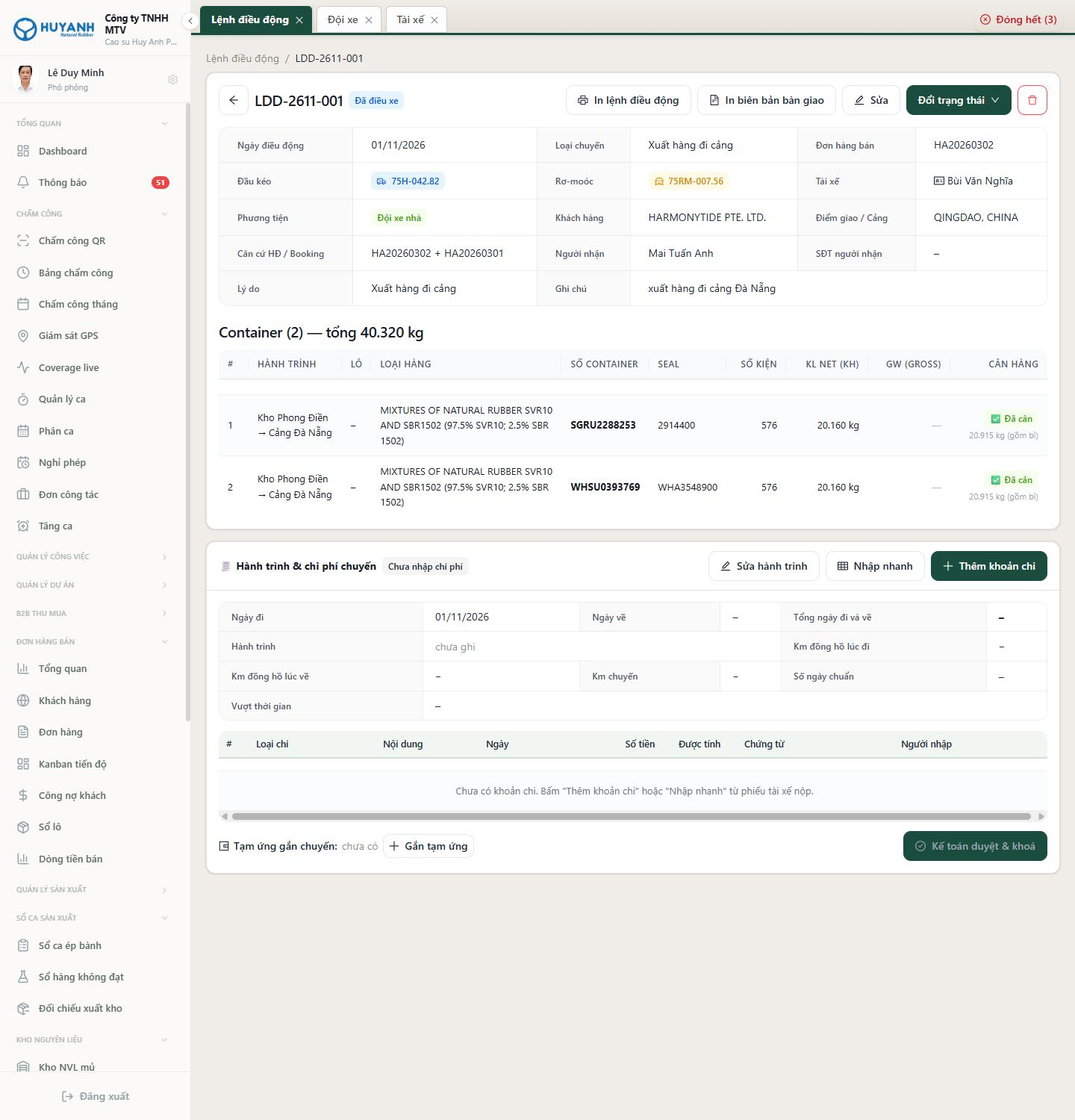
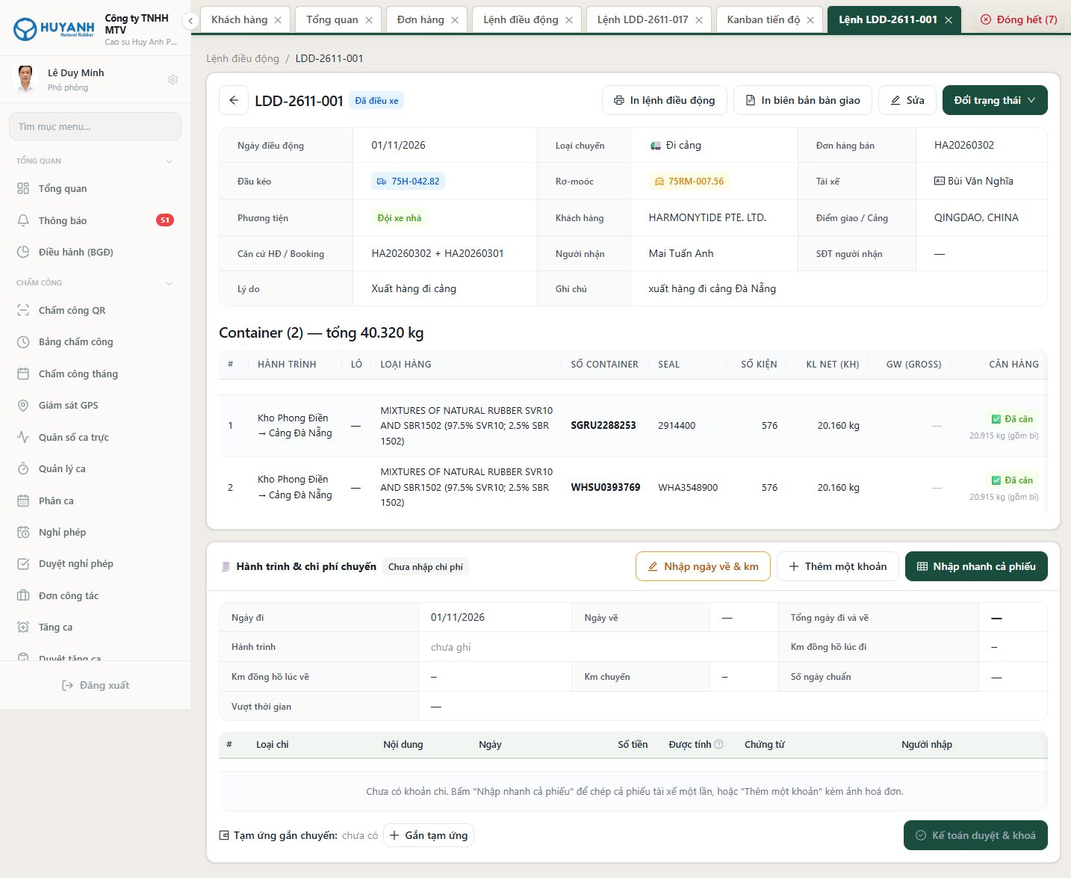
docs(logistics): refresh the hosted transport & fleet-cost guide
Bring the guide in line with the 13-18 Nov UI changes: trip type is now a card
grid grouped by vehicle, dispatch list gets vehicle-group and date filters,
trip-cost approval/reopen is finance-only, advance deletion asks for
confirmation, and load errors show a retry instead of an empty ledger.

Re-shoot 12 screenshots from the current build; this also fixes a stale
"not counted / driver bears it" label in the pending-approval shot and the
"Dang di" status name (it is "Dang van chuyen" in the app).

diff --git a/public/huong-dan-van-tai-chi-phi.html b/public/huong-dan-van-tai-chi-phi.html
@@ -74,7 +74,7 @@
     <div class="meta">
       <span class="pill">Máy tính: huyanhrubber.vn → menu VẬN TẢI</span>
       <span class="pill">4 mục: Lệnh điều động · Sổ chi phí đội xe · Đội xe · Tài xế</span>
-      <span class="pill">Ảnh chụp từ hệ thống 10/11/2026</span>
+      <span class="pill">Cập nhật và chụp lại ảnh 19/11/2026</span>
     </div>
   </div>
 
@@ -111,13 +111,14 @@
     <div class="r"><b>Kế toán</b>Soát khoản chi và chứng từ, bấm Duyệt và khoá, duyệt đề nghị thanh toán, đánh dấu đã chi.</div>
     <div class="r"><b>Ban Giám đốc</b>Xem sổ chi phí theo tài xế, theo xe, theo loại chi; ký duyệt khi cần.</div>
   </div>
-  <p class="sm muted">Vào được menu Vận tải: Ban Giám đốc, Hành chính tổng hợp, QC, Logistics và admin. Duyệt và chi trên đề nghị thanh toán chỉ kế toán, Ban Giám đốc, admin.</p>
+  <p class="sm muted">Vào được menu Vận tải: Ban Giám đốc, Hành chính tổng hợp, QC, Logistics và admin. Duyệt và chi trên đề nghị thanh toán, cũng như <b>Kế toán duyệt và khoá</b> / <b>Mở lại</b> chi phí từng chuyến, chỉ kế toán, Ban Giám đốc, admin bấm được; Hành chính tổng hợp nhập liệu sẽ thấy các nút này bị mờ.</p>
 
   <h2 id="s2">2 · Danh sách lệnh điều động</h2>
-  <div class="desk"><img src="van-tai/01-danh-sach-lenh.jpeg" alt="Danh sách lệnh điều động"><div class="cap">Vận tải → Lệnh điều động</div></div>
+  <div class="desk"><img src="van-tai/01-danh-sach-lenh.jpeg" alt="Danh sách lệnh điều động"><div class="cap">Vận tải → Lệnh điều động: thanh trạng thái, ô lọc nhóm xe, khoảng ngày điều động; dải vàng báo khi đã chạm 200 lệnh</div></div>
   <ul class="tight">
-    <li>Ô tìm theo mã lệnh, biển số, tài xế, khách. Thanh chọn trạng thái để lọc.</li>
-    <li>Cột: Mã lệnh (LDD-năm tháng-số thứ tự), Ngày, Loại chuyến, Xe / Tài xế, Khách / Điểm đến, số Cont hay Pallet, KL kế hoạch, Trạng thái.</li>
+    <li>Ô tìm theo mã lệnh, biển số, tài xế, khách. Ba cách lọc: thanh chọn <b>trạng thái</b>; ô <b>Mọi nhóm xe</b> (🚛 Xe cont · 🚚 Xe tải · 🚗 Xe con · 🗂 Khác); và khoảng <b>Từ ngày điều động – Đến ngày</b>.</li>
+    <li>Cột: Mã lệnh (LDD-năm tháng-số thứ tự), Ngày, Loại chuyến (ghi nhóm xe và loại chở, ví dụ 🚛 Đi cảng, 🚚 Chở mủ), Xe / Tài xế, Khách / Điểm đến, số Cont hay Pallet, KL kế hoạch, Trạng thái.</li>
+    <li>Sổ hiện tối đa 200 lệnh gần nhất theo bộ lọc; chạm trần thì có dòng vàng báo phía trên bảng, hãy lọc theo ngày để xem lệnh cũ hơn. Tải lỗi thì hiện nút <b>Thử lại</b>, không hiện bảng trống.</li>
     <li>Chạm một dòng để mở chi tiết. Nút <span class="btn">Tạo lệnh điều động</span> ở góc phải.</li>
   </ul>
   <div class="card">
@@ -125,7 +126,7 @@
     <div class="status" style="margin-top:8px">
       <span class="tag grey">Nháp</span><span class="arrow">→</span>
       <span class="tag blue">Đã điều xe</span><span class="arrow">→</span>
-      <span class="tag gold">Đang đi</span><span class="arrow">→</span>
+      <span class="tag gold">Đang vận chuyển</span><span class="arrow">→</span>
       <span class="tag green">Hoàn tất</span>
       <span class="muted sm" style="margin-left:8px">(<span class="tag red">Đã huỷ</span> ở bất kỳ bước nào; lệnh huỷ có thể trả về Nháp)</span>
     </div>
@@ -133,25 +134,26 @@
   </div>
 
   <h2 id="s3">3 · Tạo lệnh điều động</h2>
-  <div class="desk"><img src="van-tai/02-tao-lenh.jpeg" alt="Form tạo lệnh điều động"><div class="cap">Lệnh điều động → Tạo lệnh điều động</div></div>
+  <div class="desk"><img src="van-tai/02-tao-lenh.jpeg" alt="Form tạo lệnh điều động"><div class="cap">Lệnh điều động → Tạo lệnh: lưới thẻ Loại chuyến theo nhóm xe ở trên cùng, thanh Lưu lệnh dính đáy trang</div></div>
   <div class="two">
     <div>
       <ol class="steps">
-        <li><b>Ngày điều động</b> và <b>Loại chuyến</b>: Xuất hàng đi cảng, Hàng thương mại, Đi lấy mủ, Đi Lào, Nội bộ, Khác. Loại chuyến quyết định bảng hàng bên dưới là container hay dòng tự do.</li>
+        <li><b>Loại chuyến</b>: chạm một thẻ, các thẻ xếp theo nhóm xe — 🚛 <b>Xe cont (đầu kéo)</b>: Đi cảng · Hàng thương mại · Đi lấy mủ (NM khác) · Đi Lào; 🚚 <b>Xe tải</b>: Chở mủ · Chở hàng hoá; 🚗 <b>Xe con</b>: Chở cán bộ NV; 🗂 <b>Khác</b>: Nội bộ / việc khác · Khác. Dòng "đang chọn" phía trên nhắc thẻ đang dùng. Thẻ quyết định bảng hàng bên dưới là container hay dòng tự do. Sau đó chọn <b>Ngày điều động</b>.</li>
         <li><b>Phương tiện và tài xế</b>: chọn Đầu kéo, máy tự điền tài xế mặc định của xe đó. Chọn Rơ-moóc theo chuyến (moóc đổi liên tục nên không gắn cứng). Xe thuê ngoài thì bật thuê ngoài, gõ nhà xe, tên tài xế, số điện thoại, cước thuê.</li>
         <li><b>Thông tin chuyến</b>: khách hàng, điểm giao hoặc cảng, điểm bốc hàng (bỏ trống là kho Huy Anh), liên hệ tại điểm bốc, căn cứ hợp đồng hoặc booking, người nhận, lý do, ghi chú.</li>
-        <li><b>Hàng trên xe</b>: bấm <span class="btn white">Tạo từ Đơn hàng bán</span> → chọn đơn → tick đúng container và seal đi chuyến này (có nút chọn cả lô). Một xe chở container của nhiều đơn, nhiều khách thì gắn thêm đơn, mỗi đơn là một thẻ. Chuyến không có container thì <span class="btn white">Thêm dòng container</span> và gõ tay.</li>
-        <li>Bấm <span class="btn">Lưu lệnh</span>. Lệnh mới ở trạng thái Nháp.</li>
+        <li><b>Hàng trên xe</b>: bấm <span class="btn white">Tạo từ Đơn hàng bán</span> → chọn đơn → tick đúng container và seal đi chuyến này (có nút chọn cả lô). Bảng chọn đơn ghi <i>người mua → người nhận hàng</i> khi hai bên khác nhau, và dòng <i>⧉ Đợt n · HĐ gốc</i> cho đơn mua tiếp theo hợp đồng đã ký. Một xe chở container của nhiều đơn, nhiều khách thì gắn thêm đơn, mỗi đơn là một thẻ. Chuyến không có container thì <span class="btn white">Thêm dòng container</span> và gõ tay.</li>
+        <li>Bấm <span class="btn">Lưu lệnh</span> trên thanh dính đáy trang (kèm tổng số container và tổng kg đang nhập, nhập xong dòng cuối không phải cuộn lên). Lệnh mới ở trạng thái Nháp. Bấm Quay lại, đóng tab hoặc F5 khi chưa lưu thì máy hỏi "Rời trang khi lệnh chưa lưu?".</li>
       </ol>
     </div>
     <div class="card" style="margin-top:0">
       <b>Chuyến đi lấy mủ</b>
-      <p class="sm">Loại "Đi lấy mủ" có thêm ô loại mủ dự kiến, mã lô dự kiến, số pallet nhựa và sắt mang đi. App cân điền sẵn các số này khi chọn lệnh, và chi tiết lệnh hiện bảng đối chiếu bốn lần cân (hai ở Tân Lâm, hai ở Phong Điền).</p>
+      <p class="sm">Thẻ "Đi lấy mủ (NM khác)" có thêm ô loại mủ dự kiến, mã lô dự kiến, số pallet nhựa và sắt mang đi. App cân điền sẵn các số này khi chọn lệnh, và chi tiết lệnh hiện bảng đối chiếu bốn lần cân (hai ở nhà máy lấy mủ — Tân Lâm hoặc Lào, hai ở Phong Điền).</p>
       <b>Mẹo</b>
       <ul class="tight sm">
         <li>Đầu kéo gắn tài xế cố định ở danh mục Đội xe, nên chọn xe là xong phần tài xế.</li>
         <li>Mỗi dòng là một container với seal riêng. Một xe hai container thì hai dòng.</li>
         <li>Lệnh đã Hoàn tất không sửa được bảng hàng. Cần sửa thì đổi về Đã điều xe trước.</li>
+        <li>Mở lệnh cũ để sửa mà máy báo lỗi tải thì có nút Thử lại; form không hiện trống, kẻo lưu đè lên lệnh thật.</li>
       </ul>
     </div>
   </div>
@@ -159,12 +161,12 @@
   <h2 id="s4">4 · Chi tiết lệnh, đổi trạng thái, in</h2>
   <div class="desk"><img src="van-tai/03-chi-tiet-lenh.jpeg" alt="Chi tiết lệnh điều động"><div class="cap">Chi tiết lệnh LDD-2611-001: thông tin, container đã cân, khối Hành trình và chi phí chuyến</div></div>
   <ul class="tight">
-    <li>Hàng nút trên cùng: <span class="btn white">In lệnh điều động</span>, <span class="btn white">In biên bản bàn giao</span>, <span class="btn white">Sửa</span>, <span class="btn">Đổi trạng thái</span>, thùng rác để xoá lệnh nháp. Lệnh đi cảng có thêm <span class="btn white">Đánh dấu đã cân</span> khi trạm cân không chọn lệnh được.</li>
+    <li>Hàng nút trên cùng: <span class="btn white">In lệnh điều động</span>, <span class="btn white">In biên bản bàn giao</span>, <span class="btn white">Sửa</span>, <span class="btn">Đổi trạng thái</span>, thùng rác xoá hẳn lệnh. Thùng rác chỉ hiện với lệnh <b>Nháp</b> hoặc <b>Đã huỷ</b> và xoá luôn dòng hàng cùng chi phí chuyến đã nhập; lệnh đã phát hành muốn bỏ thì <b>Đổi trạng thái → Đã huỷ</b> (ngày điều động của lệnh là mốc giao hàng và tuổi nợ phải thu). Lệnh đi cảng có thêm <span class="btn white">Đánh dấu đã cân</span> khi trạm cân không chọn lệnh được.</li>
     <li>Bảng container: số container, seal, số kiện, KL net kế hoạch, GW, cột Cân hàng hiện "Đã cân" kèm số cân thật khi trạm cân đã cân.</li>
     <li>Phía dưới là khối <b>Hành trình và chi phí chuyến</b> (mục 7).</li>
   </ul>
   <div class="desk"><img src="van-tai/07-in-lenh.jpeg" alt="Bản in lệnh điều động xe"><div class="cap">Bản in A4 Lệnh điều động xe: số lệnh, lái xe, biển số, khách, cảng, bảng container, ô bảo vệ ghi giờ và km, bốn chữ ký</div></div>
-  <p class="sm">Bản in Biên bản bàn giao vận chuyển dùng cùng số liệu, thêm cột khách hàng khi một xe chở hàng của hai khách trở lên. Bấm <span class="btn gold">In</span> ở góc phải, trình duyệt chỉ in tờ phiếu.</p>
+  <p class="sm">Bản in Biên bản bàn giao vận chuyển dùng cùng số liệu, thêm cột khách hàng khi một xe chở hàng của hai khách trở lên. Dòng loại chuyến trên bản in ghi "nhóm xe — loại chở", ví dụ <i>Xe cont (đầu kéo) — Đi cảng</i>. Bấm <span class="btn gold">In</span> ở góc phải, trình duyệt chỉ in tờ phiếu.</p>
 
   <h2 id="s5">5 · Nối với trạm cân và đơn hàng bán</h2>
   <div class="card">
@@ -191,7 +193,7 @@
   </ul>
 
   <h2 id="s7">7 · Chi phí chuyến trên lệnh <small>khối "Hành trình và chi phí chuyến" trong chi tiết lệnh</small></h2>
-  <p>Xe về, Hành chính tổng hợp mở lệnh rồi nhập ba thứ: hành trình và km, từng khoản chi theo phiếu tài xế nộp, tạm ứng đã đưa. Kế toán xem xong bấm duyệt và khoá.</p>
+  <p>Xe về, Hành chính tổng hợp mở lệnh rồi nhập ba thứ: hành trình và km, từng khoản chi theo phiếu tài xế nộp, tạm ứng đã đưa. Kế toán (hoặc Ban Giám đốc) xem xong bấm duyệt và khoá.</p>
   <div class="desk"><img src="van-tai/17-khoi-chi-phi.jpeg" alt="Khối Hành trình và chi phí chuyến với ba nút nhập"><div class="cap">Ba nút nhập: <b>Nhập ngày về &amp; km</b> (tô vàng khi chuyến chưa có ngày về), <b>Thêm một khoản</b> (một khoản kèm ảnh), <b>Nhập nhanh cả phiếu</b> (chép cả phiếu tài xế một lần — đường chính).</div></div>
   <h3>Nhập ngày về và km</h3>
   <div class="desk"><img src="van-tai/05-sua-hanh-trinh.jpeg" alt="Hộp Hành trình và km của chuyến"></div>
@@ -217,24 +219,27 @@
     <li><b>Loại chi</b> và <b>Ngày chi</b> (mặc định ngày điều động). <b>Nội dung</b> ngắn gọn, ví dụ "Petrolimex Phong Điền 95 lít".</li>
     <li><b>Số tiền</b> và <b>đồng tiền</b> VND hoặc LAK. Chọn LAK thì nhập tỷ giá 1 LAK bằng bao nhiêu đồng, máy điền sẵn tỷ giá gần nhất và tự quy đổi.</li>
     <li><b>Khoản chi theo quy định (được tính)</b>: bật khi nằm trong danh mục chi phí công ty đã quy định, máy tính vào chuyến và vào đề nghị thanh toán. Tắt khi <b>chưa được thông qua</b> (ngoài quy định, chưa có quyết định): ghi vì sao, khoản nằm ở cột "Chưa thông qua" chờ Ban Giám đốc hoặc kế toán quyết, đồng ý thì bật lại. Tắt <b>không</b> có nghĩa là tài xế phải chịu.</li>
-    <li><b>Ảnh hoá đơn</b>: kéo thả hoặc chọn nhiều ảnh, nhận cả PDF, ảnh tự nén. Không bắt buộc nhưng sổ sẽ đếm khoản thiếu chứng từ.</li>
+    <li><b>Ảnh hoá đơn</b>: kéo thả hoặc chọn nhiều ảnh, nhận cả PDF, ảnh tự nén. Không bắt buộc nhưng sổ sẽ đếm khoản thiếu chứng từ. Nếu có ảnh tải lỗi, máy báo vàng "N chứng từ tải lỗi": khoản chi vẫn đã lưu, chỉ cần tải lại ảnh ở cột Chứng từ.</li>
     <li><span class="btn">Lưu</span> hoặc <span class="btn white">Lưu và thêm tiếp</span> để nhập khoản kế.</li>
   </ol>
   <h3>Bảng khoản chi, tạm ứng gắn chuyến, duyệt và khoá</h3>
   <ul class="tight">
     <li>Mỗi khoản một dòng: loại, nội dung, ngày, số tiền (LAK hiện kèm số quy đổi), công tắc Được tính (tắt là chưa thông qua, chờ quyết định), ảnh chứng từ (chạm xem to, nút tải thêm), người nhập. Khoản được tính mà chưa có ảnh gắn nhãn "thiếu CT".</li>
+    <li>Góc trên khối có nhãn trạng thái chi phí của chuyến: <span class="tag grey">Chưa nhập chi phí</span> → <span class="tag gold">Chờ kế toán duyệt</span> → <span class="tag green">Đã duyệt</span> (có ổ khoá và giờ duyệt). Sổ chi phí đội xe dùng đúng ba nhãn này.</li>
     <li>Cước thuê xe ngoài đã khai trên lệnh hiện thành một dòng màu tím, không nhập lại.</li>
     <li>Bốn ô tổng: <b>Tổng chi chuyến</b> (được tính + chưa thông qua, quy đổi VNĐ), Chi được tính, Chưa thông qua, Chứng từ đủ hay thiếu.</li>
-    <li><span class="btn white">Gắn tạm ứng</span>: ghi tạm ứng đã đưa cho tài xế trước chuyến. Dòng dưới hiện còn lại sau chuyến.</li>
-    <li><span class="btn gold">Kế toán duyệt và khoá</span>: sau khi khoá không sửa hay xoá khoản chi và chứng từ được nữa. Muốn sửa bấm <span class="btn white">Mở lại</span>.</li>
+    <li><span class="btn white">Gắn tạm ứng</span>: ghi tạm ứng đã đưa cho tài xế trước chuyến. Dòng dưới hiện còn lại sau chuyến. Bấm dấu × trên thẻ tạm ứng thì máy hỏi lại và nêu số tiền, vì xoá là mất hẳn khỏi sổ tạm ứng; tạm ứng đã vào đề nghị thanh toán thì không có dấu ×.</li>
+    <li><span class="btn gold">Kế toán duyệt và khoá</span>: sau khi khoá không sửa hay xoá khoản chi và chứng từ được nữa. Muốn sửa bấm <span class="btn white">Mở lại</span>. Hai nút này chỉ kế toán, Ban Giám đốc, admin bấm được (người khác thấy mờ, rê chuột có lời nhắc). Nút duyệt còn mờ khi chuyến chưa có khoản chi nào, kể cả cước thuê xe ngoài.</li>
   </ul>
   <div class="note warn sm">Chuyến đã gom vào đề nghị thanh toán cũng bị khoá sửa khoản chi. Muốn sửa phải bỏ chuyến khỏi phiếu nháp trước.</div>
+  <div class="note red sm"><b>Khối chi phí hiện nút Thử lại hoặc băng lỗi đỏ</b>: máy chưa tải được số liệu. Bấm Thử lại và <b>đừng nhập thêm khoản chi</b> khi chưa tải được, kẻo nhập trùng. Băng đỏ phía trên khối nghĩa là số đang xem là của lần tải trước, có thể chưa gồm khoản vừa lưu.</div>
   <h2 id="s8">8 · Sổ chi phí đội xe <small>Vận tải → Sổ chi phí đội xe</small></h2>
   <div class="desk"><img src="van-tai/10-so-chi-phi-theo-tai-xe.jpeg" alt="Sổ chi phí đội xe, tab theo tài xế"><div class="cap">Lọc tháng 11/2026, tài xế Bùi Văn Nghĩa. Bảng trên là đối soát theo tài xế, bảng dưới mỗi dòng một chuyến theo đúng bố cục form theo dõi chi phí tài xế</div></div>
   <ul class="tight">
-    <li><b>Bộ lọc</b>: tháng, tài xế, đầu kéo. Nút tải lại, <span class="btn white">Xuất Excel</span> ra file đúng 26 cột của form, một sheet mỗi tài xế. Nút <span class="btn gold">Lập đề nghị thanh toán</span> sáng khi đã chọn tài xế.</li>
+    <li><b>Bộ lọc</b>: tháng, tài xế, đầu kéo. Nút tải lại, <span class="btn white">Xuất Excel</span> ra file đúng 26 cột của form, một sheet mỗi tài xế; hai cột cờ ghi "Được tính" và "Chưa thông qua". Nút Xuất Excel mờ khi đang tải hoặc tải lỗi (tránh xuất file mang tên tháng này nhưng số của tháng khác). Nút <span class="btn gold">Lập đề nghị thanh toán</span> chỉ bấm được khi đã chọn tài xế (chưa chọn thì bị khoá, rê chuột vào nút có lời nhắc).</li>
+    <li>Tải lỗi thì cả sổ hiện lỗi kèm nút <b>Thử lại</b>, không hiện các ô 0 ₫ giả. Chạm mã lệnh hoặc nút <span class="btn white">Mở lệnh</span> thì lệnh mở ở tab mới, sổ vẫn giữ nguyên bên cạnh.</li>
     <li><b>Bảy ô số</b>: chuyến, chi được tính, chưa thông qua, tạm ứng, còn lại, đồng trên km, chờ xử lý.</li>
-    <li><b>Theo tài xế</b>: bảng đối soát tạm ứng − chi được tính = còn lại (dương là tài xế hoàn, âm là chi thêm), chạm tên để lọc; bảng chuyến bên dưới có ngày đi về, xe, km, hành trình, ngày chuẩn, vượt, nội dung, tạm ứng, chi được tính, chưa thông qua, trạng thái và mã đề nghị thanh toán.</li>
+    <li><b>Theo tài xế</b>: bảng đối soát tạm ứng − chi được tính = còn lại (dương là tài xế hoàn, âm là chi thêm), chạm tên để lọc; bảng chuyến bên dưới có ngày đi về, xe, km, hành trình, ngày chuẩn, vượt, nội dung, tạm ứng, chi được tính, chưa thông qua, trạng thái chi phí (Chưa nhập chi phí / Chờ kế toán duyệt / Đã duyệt) và mã đề nghị thanh toán.</li>
   </ul>
   <div class="two">
     <div class="desk"><img src="van-tai/11-theo-xe.jpeg" alt="Tab theo xe"><div class="cap">Theo xe: mỗi đầu kéo một dòng, chi theo từng loại, tổng quy đổi, đồng trên km</div></div>
@@ -246,7 +251,7 @@
   <div class="desk"><img src="van-tai/12-chi-tam-ung.jpeg" alt="Hộp Chi tạm ứng cho tài xế"><div class="cap">Tab Tạm ứng → Chi tạm ứng</div></div>
   <ul class="tight">
     <li>Chọn tài xế, ngày chi, số tiền, VND hoặc LAK (LAK cần tỷ giá để sau này khấu trừ), gắn chuyến nếu biết, người chi tiền, ghi chú. Mã phiếu TU-năm tháng-số tự sinh.</li>
-    <li>Tab Tạm ứng liệt kê phiếu trong tháng, cột Đối soát cho biết phiếu đã vào đề nghị thanh toán chưa. Phiếu chưa đối soát mới xoá được.</li>
+    <li>Tab Tạm ứng liệt kê phiếu trong tháng, cột Đối soát cho biết phiếu đã vào đề nghị thanh toán chưa. Phiếu chưa đối soát mới xoá được; bấm xoá thì máy hỏi lại và nêu số tiền (xoá hẳn, không khôi phục).</li>
     <li>Số dư từng tài xế xem ở tab Theo tài xế. Tạm ứng chưa đối soát được mang sang kỳ sau cho đến khi khấu trừ.</li>
   </ul>
 
@@ -257,7 +262,7 @@
     <li>Ở Sổ chi phí chọn tháng và tài xế → bấm <span class="btn gold">Lập đề nghị thanh toán</span>.</li>
     <li>Tick các chuyến có chi phí chưa gom và các tạm ứng chưa đối soát (gồm cả phiếu kỳ trước). Bỏ tick phiếu tạm ứng nào muốn giữ sang kỳ sau. Chọn ngày phiếu, hình thức nhận tiền, tài khoản nếu chuyển khoản.</li>
     <li>Bấm <span class="btn">Tạo phiếu nháp</span>. Máy sinh mã TTDX-năm tháng-số và mở trang chi tiết phiếu.</li>
-    <li>Ở trang phiếu: sửa thông tin, thêm khoản tay, bỏ dòng (chuyến hay tạm ứng được nhả ra), xem ba ô tổng. Xong bấm <span class="btn gold">Gửi duyệt</span>.</li>
+    <li>Ở trang phiếu: sửa thông tin, thêm khoản tay, bỏ dòng (chuyến hay tạm ứng được nhả ra), xem ba ô tổng; chạm "mở lệnh LDD-…" ở dòng chuyến để xem lệnh ở tab mới. Phiếu nháp xoá hẳn được bằng thùng rác, chuyến và tạm ứng trong phiếu được nhả. Xong bấm <span class="btn gold">Gửi duyệt</span>.</li>
     <li>Kế toán hoặc Ban Giám đốc bấm <span class="btn blue">Duyệt</span>: chi phí các chuyến trong phiếu bị khoá. Chi tiền xong bấm <span class="btn ok">Đánh dấu đã chi</span>.</li>
     <li>Cần sửa thì <span class="btn white">Trả về nháp</span>. Lập nhầm thì <span class="btn red">Huỷ</span>, chuyến và tạm ứng được nhả để gom phiếu khác.</li>
     <li><span class="btn white">In phiếu</span>: tờ A4 "Đề nghị thanh toán" như bên mủ, có kính gửi, người đề nghị, lý do, ô tick hình thức nhận tiền, bảng STT, nội dung, ĐVT, SL, đơn giá, thành tiền, ghi chú, số tiền bằng chữ, ba chữ ký.</li>
@@ -295,17 +300,19 @@
     <thead><tr><th style="width:38%">Tình huống</th><th>Làm gì</th></tr></thead>
     <tbody>
       <tr><td>App cân không thấy lệnh</td><td>Lệnh đang Hoàn tất, Đã huỷ hoặc còn Nháp. Đổi về Đã điều xe.</td></tr>
-      <tr><td>Nút "Lập đề nghị thanh toán" mờ</td><td>Chưa chọn tài xế ở bộ lọc. Chọn tài xế rồi bấm lại.</td></tr>
+      <tr><td>Nút "Lập đề nghị thanh toán" không bấm được</td><td>Chưa chọn tài xế ở bộ lọc (rê chuột vào nút sẽ hiện "Chọn một tài xế trước"). Chọn tài xế rồi bấm lại.</td></tr>
       <tr><td>"Không có chuyến có chi phí hay tạm ứng nào chưa gom"</td><td>Chuyến trong kỳ chưa có khoản chi, hoặc đã nằm trong phiếu khác. Xem cột trạng thái ở tab Theo tài xế.</td></tr>
       <tr><td>"Lệnh đã duyệt chi phí (khoá)"</td><td>Kế toán đã khoá. Bấm Mở lại trên lệnh, hoặc nếu chuyến đang trong đề nghị thanh toán thì bỏ chuyến khỏi phiếu nháp.</td></tr>
       <tr><td>Tài xế có khoản chi lạ, chưa biết công ty có chấp nhận không</td><td>Vẫn nhập, tắt Được tính và ghi vì sao. Khoản hiện ở cột Chưa thông qua, không vào đề nghị thanh toán. Khi có quyết định đồng ý, bật lại Được tính.</td></tr>
       <tr><td>"Khoản chi bằng LAK cần tỷ giá"</td><td>Nhập ô 1 LAK bằng bao nhiêu đồng. Tạm ứng LAK cũng cần tỷ giá mới khấu trừ được.</td></tr>
-      <tr><td>Nút Duyệt hoặc Đánh dấu đã chi mờ</td><td>Chỉ kế toán, Ban Giám đốc, admin bấm được.</td></tr>
+      <tr><td>Nút Duyệt, Đánh dấu đã chi, Kế toán duyệt và khoá hoặc Mở lại mờ</td><td>Chỉ kế toán, Ban Giám đốc, admin bấm được. Riêng nút duyệt chi phí chuyến còn mờ khi chuyến chưa có khoản chi nào.</td></tr>
+      <tr><td>Không thấy thùng rác xoá lệnh</td><td>Chỉ lệnh Nháp hoặc Đã huỷ mới xoá hẳn được. Lệnh đã phát hành thì Đổi trạng thái → Đã huỷ.</td></tr>
+      <tr><td>Màn hiện nút Thử lại / băng lỗi đỏ thay cho dữ liệu</td><td>Máy chưa tải được số liệu (mạng hoặc máy chủ). Bấm Thử lại; chưa tải được thì đừng nhập khoản chi hay tạm ứng mới, kẻo trùng.</td></tr>
       <tr><td>Khoản chi thuộc chuyến xe thuê ngoài</td><td>Nhập như thường, nhưng tiền trả cho nhà xe đi luồng riêng, không lập đề nghị thanh toán tài xế.</td></tr>
     </tbody>
   </table>
 
-  <footer>Tài liệu nội bộ Cao su Huy Anh · Huy Anh ERP · Ảnh chụp từ hệ thống thật ngày 10/11/2026 (số liệu chi phí tháng 11 chưa nhập nên các ô số đang bằng 0).</footer>
+  <footer>Tài liệu nội bộ Cao su Huy Anh · Huy Anh ERP · Nội dung cập nhật 19/11/2026 theo bản hệ thống ngày 18/11. Ảnh chụp từ hệ thống thật ngày 19/11/2026 (số liệu chi phí tháng 11 chưa nhập nên các ô số đang bằng 0); riêng ảnh Thêm một khoản, Sửa hành trình, Nhập nhanh, Đội xe và Tài xế chụp ngày 10/11/2026, giao diện chỉ khác chi tiết nhỏ.</footer>
 </div>
 </body>
 </html>
